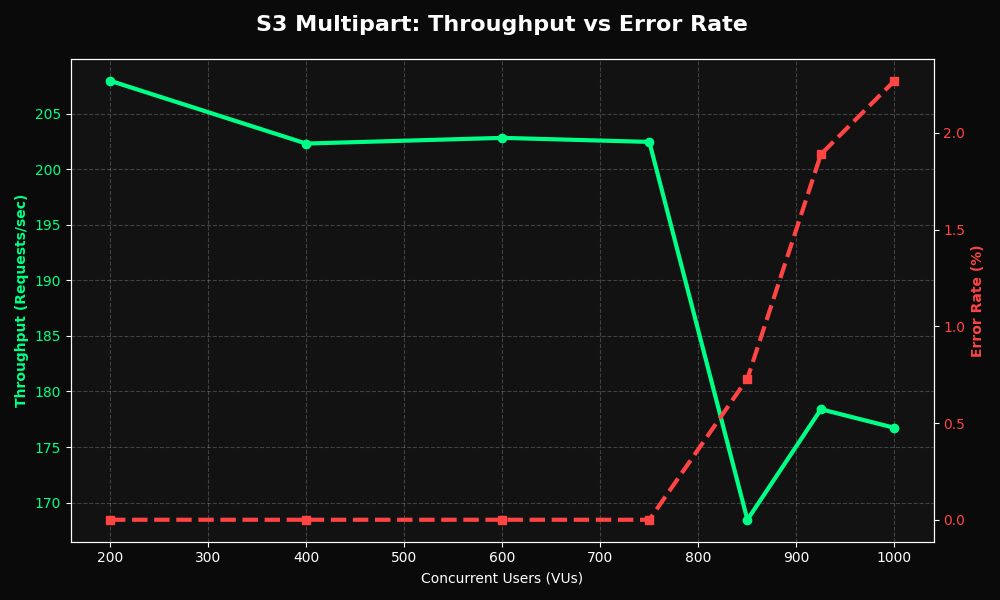
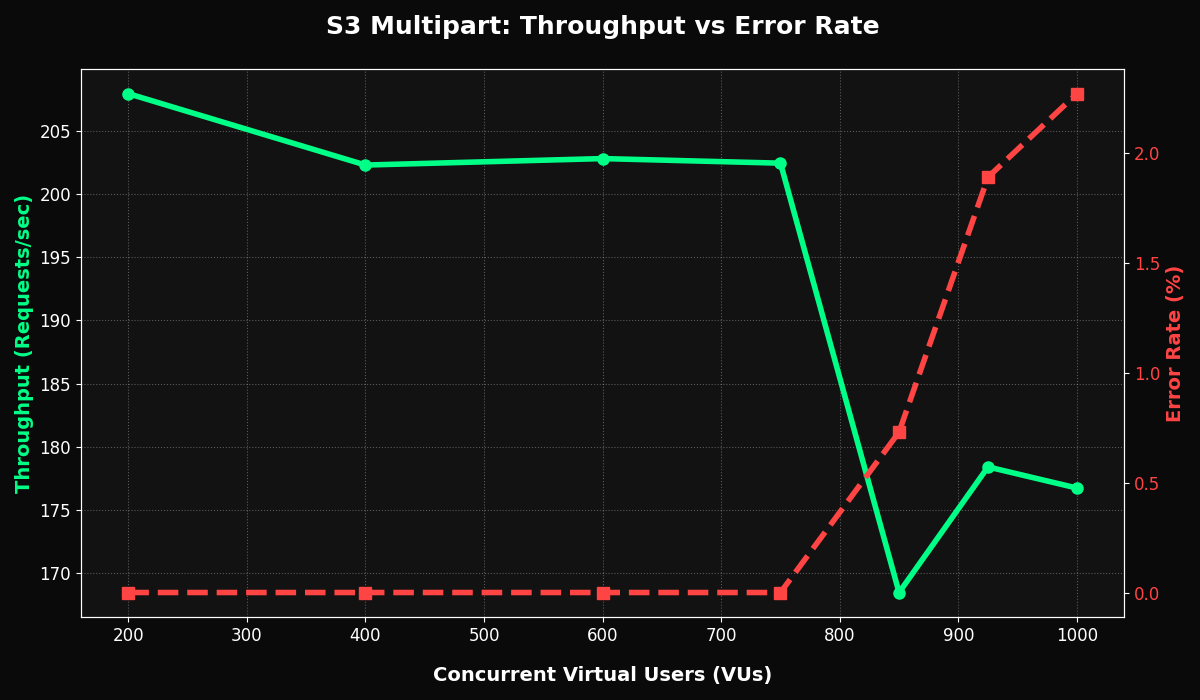
add vis

diff --git a/load-test-res/datavis/proxy1.py b/load-test-res/datavis/proxy1.py
@@ -1,26 +1,30 @@
 import matplotlib.pyplot as plt
 import pandas as pd
 
-# Load data from CSV
+# Load data
 df = pd.read_csv('metrics-proxy.csv')
 
 plt.style.use('dark_background')
-fig, ax1 = plt.subplots(figsize=(10, 6), facecolor='#0a0a0a')
+fig, ax1 = plt.subplots(figsize=(12, 7), facecolor='#0a0a0a')
 ax1.set_facecolor('#121212')
 
-# Throughput (Primary Axis)
-ax1.plot(df['VU'], df['throughput_rps'], marker='o', color='#00ff87', linewidth=3, label='Throughput (RPS)')
-ax1.set_ylabel('Throughput (Requests/sec)', color='#00ff87', fontweight='bold')
-ax1.tick_params(axis='y', labelcolor='#00ff87')
-ax1.set_xlabel('Concurrent Users (VUs)')
+# Throughput - Increased linewidth and marker size
+ax1.plot(df['VU'], df['throughput_rps'], marker='o', color='#00ff87', 
+         linewidth=4, markersize=8, label='Throughput (RPS)', zorder=3)
+ax1.set_xlabel('Concurrent Virtual Users (VUs)', fontsize=14, fontweight='bold', labelpad=15)
+ax1.set_ylabel('Throughput (Requests/sec)', color='#00ff87', fontsize=14, fontweight='bold')
+ax1.tick_params(axis='both', labelcolor='#ffffff', labelsize=12)
 
-# Error Rate (Secondary Axis)
+# Error Rate - Secondary Axis
 ax2 = ax1.twinx()
-ax2.plot(df['VU'], df['error_rate_percent'], marker='s', color='#ff4444', linewidth=3, linestyle='--', label='Error Rate (%)')
-ax2.set_ylabel('Error Rate (%)', color='#ff4444', fontweight='bold')
-ax2.tick_params(axis='y', labelcolor='#ff4444')
+ax2.plot(df['VU'], df['error_rate_percent'], marker='s', color='#ff4444', 
+         linewidth=4, markersize=8, linestyle='--', label='Error Rate (%)', zorder=3)
+ax2.set_ylabel('Error Rate (%)', color='#ff4444', fontsize=14, fontweight='bold')
+ax2.tick_params(axis='y', labelcolor='#ff4444', labelsize=12)
 
-plt.title('Proxy: Throughput vs Error Rate', fontsize=16, fontweight='bold', pad=20)
-ax1.grid(True, linestyle='--', alpha=0.2) # Subtle grid
+# Title and Grid
+plt.title('Proxy: Throughput vs Error Rate', fontsize=18, fontweight='bold', pad=25, color='#ffffff')
+ax1.grid(True, linestyle=':', alpha=0.3, zorder=1)
+
 plt.tight_layout()
 plt.show()

diff --git a/load-test-res/datavis/proxy2.py b/load-test-res/datavis/proxy2.py
@@ -1,26 +1,28 @@
 import matplotlib.pyplot as plt
 import pandas as pd
 
-# Load data from CSV
 df = pd.read_csv('metrics-proxy.csv')
 
 plt.style.use('dark_background')
-fig, ax1 = plt.subplots(figsize=(10, 6), facecolor='#0a0a0a')
+fig, ax1 = plt.subplots(figsize=(12, 7), facecolor='#0a0a0a')
 ax1.set_facecolor('#121212')
 
-# P95 Latency (Primary Axis)
-ax1.plot(df['VU'], df['p95_latency_s'], marker='o', color='#ffcc00', linewidth=3, label='p95 Latency (s)')
-ax1.set_ylabel('p95 Latency (Seconds)', color='#ffcc00', fontweight='bold')
-ax1.tick_params(axis='y', labelcolor='#ffcc00')
-ax1.set_xlabel('Concurrent Users (VUs)')
+# P95 Latency
+ax1.plot(df['VU'], df['p95_latency_s'], marker='o', color='#ffcc00', 
+         linewidth=4, markersize=8, label='p95 Latency (s)', zorder=3)
+ax1.set_xlabel('Concurrent Virtual Users (VUs)', fontsize=14, fontweight='bold', labelpad=15)
+ax1.set_ylabel('p95 Latency (Seconds)', color='#ffcc00', fontsize=14, fontweight='bold')
+ax1.tick_params(axis='both', labelcolor='#ffffff', labelsize=12)
 
-# Throughput (Secondary Axis)
+# Throughput - Secondary Axis
 ax2 = ax1.twinx()
-ax2.plot(df['VU'], df['throughput_rps'], marker='s', color='#00ff87', linewidth=3, linestyle='--', label='Throughput (RPS)')
-ax2.set_ylabel('Throughput (Requests/sec)', color='#00ff87', fontweight='bold')
-ax2.tick_params(axis='y', labelcolor='#00ff87')
+ax2.plot(df['VU'], df['throughput_rps'], marker='s', color='#00ff87', 
+         linewidth=4, markersize=8, linestyle='--', label='Throughput (RPS)', zorder=3)
+ax2.set_ylabel('Throughput (Requests/sec)', color='#00ff87', fontsize=14, fontweight='bold')
+ax2.tick_params(axis='y', labelcolor='#00ff87', labelsize=12)
 
-plt.title('Proxy: p95 Latency vs Throughput', fontsize=16, fontweight='bold', pad=20)
-ax1.grid(True, linestyle='--', alpha=0.2)
+plt.title('Proxy: p95 Latency vs Throughput', fontsize=18, fontweight='bold', pad=25, color='#ffffff')
+ax1.grid(True, linestyle=':', alpha=0.3, zorder=1)
+
 plt.tight_layout()
 plt.show()

diff --git a/load-test-res/datavis/mp2.py b/load-test-res/datavis/mp2.py
@@ -1,26 +1,28 @@
 import matplotlib.pyplot as plt
 import pandas as pd
 
-# Load S3 data from CSV
 df = pd.read_csv('metrics-mp.csv')
 
 plt.style.use('dark_background')
-fig, ax1 = plt.subplots(figsize=(10, 6), facecolor='#0a0a0a')
+fig, ax1 = plt.subplots(figsize=(12, 7), facecolor='#0a0a0a')
 ax1.set_facecolor('#121212')
 
-# P95 Latency (Primary Axis)
-ax1.plot(df['VU'], df['p95_latency_s'], marker='o', color='#ffcc00', linewidth=3, label='p95 Latency (s)')
-ax1.set_ylabel('p95 Latency (Seconds)', color='#ffcc00', fontweight='bold')
-ax1.tick_params(axis='y', labelcolor='#ffcc00')
-ax1.set_xlabel('Concurrent Users (VUs)')
+# P95 Latency
+ax1.plot(df['VU'], df['p95_latency_s'], marker='o', color='#ffcc00', 
+         linewidth=4, markersize=8, label='p95 Latency (s)', zorder=3)
+ax1.set_xlabel('Concurrent Virtual Users (VUs)', fontsize=14, fontweight='bold', labelpad=15)
+ax1.set_ylabel('p95 Latency (Seconds)', color='#ffcc00', fontsize=14, fontweight='bold')
+ax1.tick_params(axis='both', labelcolor='#ffffff', labelsize=12)
 
-# Throughput (Secondary Axis)
+# Throughput
 ax2 = ax1.twinx()
-ax2.plot(df['VU'], df['throughput_rps'], marker='s', color='#00ff87', linewidth=3, linestyle='--', label='Throughput (RPS)')
-ax2.set_ylabel('Throughput (Requests/sec)', color='#00ff87', fontweight='bold')
-ax2.tick_params(axis='y', labelcolor='#00ff87')
+ax2.plot(df['VU'], df['throughput_rps'], marker='s', color='#00ff87', 
+         linewidth=4, markersize=8, linestyle='--', label='Throughput (RPS)', zorder=3)
+ax2.set_ylabel('Throughput (Requests/sec)', color='#00ff87', fontsize=14, fontweight='bold')
+ax2.tick_params(axis='y', labelcolor='#00ff87', labelsize=12)
 
-plt.title('S3 Multipart: p95 Latency vs Throughput', fontsize=16, fontweight='bold', pad=20)
-ax1.grid(True, linestyle='--', alpha=0.2)
+plt.title('S3 Multipart: p95 Latency vs Throughput', fontsize=18, fontweight='bold', pad=25, color='#ffffff')
+ax1.grid(True, linestyle=':', alpha=0.3, zorder=1)
+
 plt.tight_layout()
 plt.show()

diff --git a/load-test-res/datavis/mp1.py b/load-test-res/datavis/mp1.py
@@ -1,26 +1,28 @@
 import matplotlib.pyplot as plt
 import pandas as pd
 
-# Load S3 data from CSV
 df = pd.read_csv('metrics-mp.csv')
 
 plt.style.use('dark_background')
-fig, ax1 = plt.subplots(figsize=(10, 6), facecolor='#0a0a0a')
+fig, ax1 = plt.subplots(figsize=(12, 7), facecolor='#0a0a0a')
 ax1.set_facecolor('#121212')
 
-# Throughput (Primary Axis)
-ax1.plot(df['VU'], df['throughput_rps'], marker='o', color='#00ff87', linewidth=3, label='Throughput (RPS)')
-ax1.set_ylabel('Throughput (Requests/sec)', color='#00ff87', fontweight='bold')
-ax1.tick_params(axis='y', labelcolor='#00ff87')
-ax1.set_xlabel('Concurrent Users (VUs)')
+# Throughput
+ax1.plot(df['VU'], df['throughput_rps'], marker='o', color='#00ff87', 
+         linewidth=4, markersize=8, label='Throughput (RPS)', zorder=3)
+ax1.set_xlabel('Concurrent Virtual Users (VUs)', fontsize=14, fontweight='bold', labelpad=15)
+ax1.set_ylabel('Throughput (Requests/sec)', color='#00ff87', fontsize=14, fontweight='bold')
+ax1.tick_params(axis='both', labelcolor='#ffffff', labelsize=12)
 
-# Error Rate (Secondary Axis)
+# Error Rate
 ax2 = ax1.twinx()
-ax2.plot(df['VU'], df['error_rate_percent'], marker='s', color='#ff4444', linewidth=3, linestyle='--', label='Error Rate (%)')
-ax2.set_ylabel('Error Rate (%)', color='#ff4444', fontweight='bold')
-ax2.tick_params(axis='y', labelcolor='#ff4444')
+ax2.plot(df['VU'], df['error_rate_percent'], marker='s', color='#ff4444', 
+         linewidth=4, markersize=8, linestyle='--', label='Error Rate (%)', zorder=3)
+ax2.set_ylabel('Error Rate (%)', color='#ff4444', fontsize=14, fontweight='bold')
+ax2.tick_params(axis='y', labelcolor='#ff4444', labelsize=12)
 
-plt.title('S3 Multipart: Throughput vs Error Rate', fontsize=16, fontweight='bold', pad=20)
-ax1.grid(True, linestyle='--', alpha=0.2)
+plt.title('S3 Multipart: Throughput vs Error Rate', fontsize=18, fontweight='bold', pad=25, color='#ffffff')
+ax1.grid(True, linestyle=':', alpha=0.3, zorder=1)
+
 plt.tight_layout()
 plt.show()
